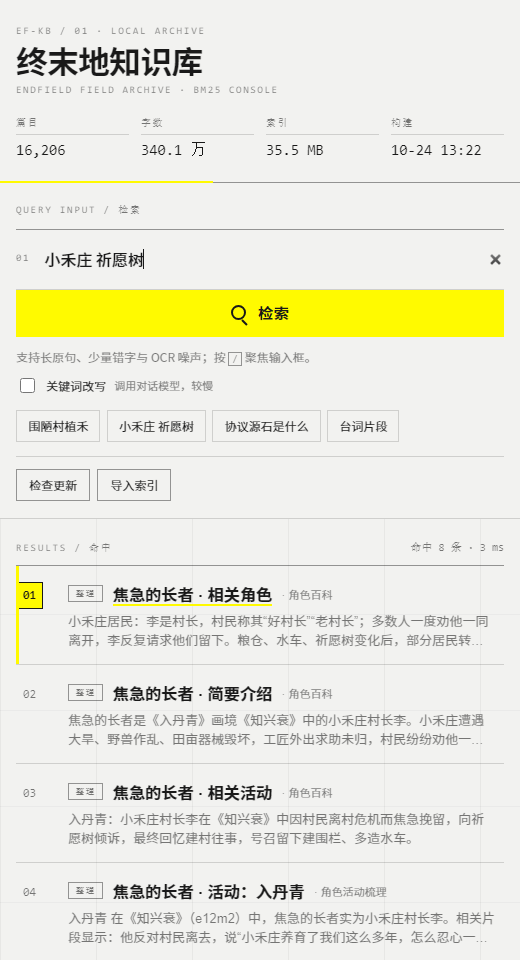
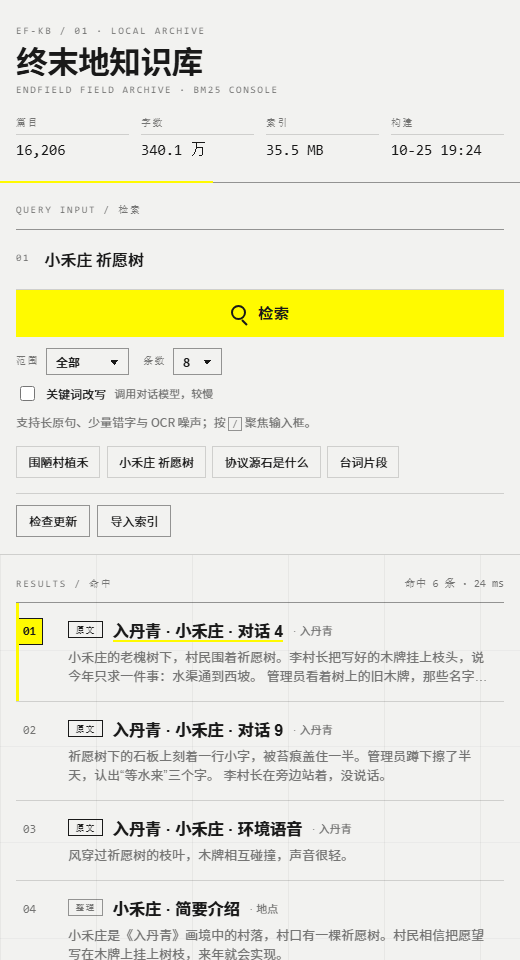
feat: scope filter and result limit in console

diff --git a/views/kb-console/index.html b/views/kb-console/index.html
@@ -55,15 +55,37 @@
           </button>
         </form>
         <div class="ark-query-meta">
-          <p class="ark-hint" id="query-hint">
-            支持长原句、少量错字与 OCR 噪声；按 <kbd>/</kbd> 聚焦输入框。
-          </p>
+          <div class="ark-filters" role="group" aria-label="检索范围与条数">
+            <label class="ark-field">
+              <span class="ark-field-label">范围</span>
+              <select id="scope" name="scope">
+                <option value="">全部</option>
+                <option value="story">剧情原文</option>
+                <option value="archive">中枢档案</option>
+                <option value="wiki">整理资料</option>
+                <option value="character">角色资料</option>
+              </select>
+            </label>
+            <label class="ark-field">
+              <span class="ark-field-label">条数</span>
+              <select id="limit" name="limit">
+                <option value="5">5</option>
+                <option value="8" selected>8</option>
+                <option value="15">15</option>
+                <option value="30">30</option>
+                <option value="50">50</option>
+              </select>
+            </label>
+          </div>
           <label class="ark-toggle">
             <input id="rewrite" type="checkbox" />
             <span>关键词改写</span>
             <span class="ark-toggle-note">调用对话模型，较慢</span>
           </label>
         </div>
+        <p class="ark-hint" id="query-hint">
+          支持长原句、少量错字与 OCR 噪声；按 <kbd>/</kbd> 聚焦输入框。
+        </p>
         <ul class="ark-examples" id="examples" aria-label="示例查询">
           <li><button type="button" data-q="围陋村植禾">围陋村植禾</button></li>
           <li><button type="button" data-q="小禾庄 祈愿树">小禾庄 祈愿树</button></li>

diff --git a/views/kb-console/app.js b/views/kb-console/app.js
@@ -8,6 +8,8 @@ const els = {
   input: document.getElementById("q"),
   submit: document.getElementById("submit"),
   rewrite: document.getElementById("rewrite"),
+  scope: document.getElementById("scope"),
+  limit: document.getElementById("limit"),
   list: document.getElementById("list"),
   placeholder: document.getElementById("placeholder"),
   readout: document.getElementById("readout"),
@@ -312,9 +314,12 @@ async function runSearch(rawQuery) {
   renderSkeleton();
 
   try {
+    const scope = els.scope?.value || "";
+    const limit = Number(els.limit?.value) || 8;
     const payload = await bridge.apiGet("search", {
       q: query,
-      k: 8,
+      k: limit,
+      scope,
       rewrite: els.rewrite.checked ? 1 : 0,
     });
     const count = payload.count ?? 0;
@@ -322,7 +327,10 @@ async function runSearch(rawQuery) {
     const rewritten = payload.rewritten
       ? ` · 改写为 ${payload.used_query}`
       : "";
-    els.readout.textContent = `命中 ${count} 条 · ${elapsed} ms${rewritten}`;
+    const scopeNote = scope
+      ? ` · 仅${els.scope.options[els.scope.selectedIndex].textContent}`
+      : "";
+    els.readout.textContent = `命中 ${count} 条 · ${elapsed} ms${scopeNote}${rewritten}`;
     renderHits(payload);
     if (count > 0) selectHit(0);
   } catch (error) {
@@ -556,6 +564,13 @@ function boot() {
     els.input.value = button.dataset.q;
     runSearch(button.dataset.q);
   });
+
+  const rerunIfIdle = () => {
+    if (state.busy || !state.hasIndex) return;
+    if (els.input.value.trim()) runSearch(els.input.value);
+  };
+  els.scope?.addEventListener("change", rerunIfIdle);
+  els.limit?.addEventListener("change", rerunIfIdle);
 
   els.checkUpdate?.addEventListener("click", () => {
     if (!state.hasIndex) handleFirstDownload();

diff --git a/views/kb-console/style.css b/views/kb-console/style.css
@@ -255,12 +255,57 @@ body {
   display: flex;
   align-items: center;
   justify-content: space-between;
-  gap: 1.5rem;
+  flex-wrap: wrap;
+  gap: 0.9rem 1.5rem;
   margin-block-start: 0.7rem;
 }
 
+.ark-filters {
+  display: flex;
+  align-items: center;
+  flex-wrap: wrap;
+  gap: 0.9rem;
+}
+
+.ark-field {
+  display: inline-flex;
+  align-items: center;
+  gap: 0.45rem;
+  font-family: var(--ark-font-mono);
+  font-size: 10px;
+  letter-spacing: 0.14em;
+  text-transform: uppercase;
+  color: var(--ark-muted);
+}
+
+.ark-field select {
+  appearance: none;
+  border: 1px solid var(--ark-rule-strong);
+  background-color: var(--ark-paper);
+  color: var(--ark-ink);
+  font: 500 12px/1 var(--ark-font-cjk);
+  letter-spacing: 0;
+  padding: 0.42rem 1.5rem 0.42rem 0.55rem;
+  cursor: pointer;
+  background-image: linear-gradient(45deg, transparent 50%, currentColor 50%),
+    linear-gradient(135deg, currentColor 50%, transparent 50%);
+  background-position: calc(100% - 0.82rem) 54%, calc(100% - 0.57rem) 54%;
+  background-size: 5px 5px;
+  background-repeat: no-repeat;
+  transition: border-color 160ms var(--ark-ease);
+}
+
+.ark-field select:hover {
+  border-color: var(--ark-ink);
+}
+
+.ark-field select:focus-visible {
+  outline: 2px solid var(--ark-signal);
+  outline-offset: 2px;
+}
+
 .ark-hint {
-  margin: 0;
+  margin: 0.55rem 0 0;
   font-size: 12px;
   color: var(--ark-muted);
 }

diff --git a/main.py b/main.py
@@ -50,6 +50,20 @@ DEFAULT_INDEX_URLS = (
     f"{MS_BASE}/repo?Revision=master&FilePath=endfield_kb-latest.sqlite3.zip"
 )
 
+# 控制台「范围」筛选：界面选项 → 索引里的 kind
+SCOPE_KINDS: dict[str, tuple[str, ...]] = {
+    "story": ("original_story",),
+    "archive": ("archive",),
+    "wiki": (
+        "knowledge",
+        "story_wiki",
+        "character_wiki",
+        "character_activity_wiki",
+        "reference",
+    ),
+    "character": ("character_profile", "character_voice"),
+}
+
 REWRITE_SYSTEM = "你是检索词提取器。只输出关键词，不要解释、不要编号。"
 REWRITE_PROMPT = (
     "用户想找《明日方舟：终末地》里的一段剧情或设定，但他只记得大意。\n"
@@ -360,8 +374,10 @@ class EndfieldKBPlugin(Star):
         if not self.db_path:
             return error_response("索引尚未构建", status_code=503)
 
-        limit = request.query.get("k", 6, type=int) or 6
-        limit = max(1, min(limit, 10))
+        limit = request.query.get("k", 8, type=int) or 8
+        limit = max(1, min(limit, 50))
+        scope = (request.query.get("scope") or "").strip()
+        kinds = SCOPE_KINDS.get(scope)
         rewrite = str(request.query.get("rewrite", "0")).lower() in {"1", "true", "yes"}
 
         started = time.perf_counter()
@@ -370,7 +386,7 @@ class EndfieldKBPlugin(Star):
             keywords = await self._keywords(query, "")
             if keywords:
                 used = keywords
-        hits = search(self.db_path, used, top_k=limit)
+        hits = search(self.db_path, used, top_k=limit, kinds=kinds)
         elapsed_ms = round((time.perf_counter() - started) * 1000)
 
         return json_response(
@@ -378,6 +394,7 @@ class EndfieldKBPlugin(Star):
                 "query": query,
                 "used_query": used,
                 "rewritten": used != query,
+                "scope": scope,
                 "elapsed_ms": elapsed_ms,
                 "count": len(hits),
                 "hits": [

diff --git a/endfield_kb.py b/endfield_kb.py
@@ -445,6 +445,7 @@ def search(
     query: str,
     top_k: int = 5,
     score_ratio: float = 0.45,
+    kinds: list[str] | None = None,
 ) -> list[Hit]:
     """在索引上做 BM25 检索，并用稀有词约束候选。
 
@@ -454,6 +455,7 @@ def search(
         top_k: 返回条数上限。
         score_ratio: 相对分数阈值。BM25 分数为负且越小越相关，
             仅保留不高于“最佳分数 × 该比例”的结果，用来砍掉陪跑项。
+        kinds: 只在给定的 kind 里检索（原文、档案、整理等）；None 表示全库。
 
     Returns:
         按相关度排序的命中列表。
@@ -464,12 +466,17 @@ def search(
     query_tokens = set(tokenize(query))
     con = sqlite3.connect(f"file:{db_path.as_posix()}?mode=ro", uri=True)
     try:
+        where = "fts MATCH ?"
+        params: list[object] = [expression]
+        if kinds:
+            where += " AND d.kind IN (" + ",".join("?" * len(kinds)) + ")"
+            params.extend(kinds)
         rows = con.execute(
             "SELECT d.doc_id, d.title, d.coll, d.kind, d.body, fts.tokens, d.refs,"
             " bm25(fts) AS score"
             " FROM fts JOIN docs d ON d.id = fts.rowid"
-            " WHERE fts MATCH ? ORDER BY score LIMIT ?",
-            (expression, max(top_k * 6, 20)),
+            f" WHERE {where} ORDER BY score LIMIT ?",
+            (*params, max(top_k * 6, 20)),
         ).fetchall()
         # 查询词的稀有度权重：靠“我/你”这类高频词命中不算数
         weights: dict[str, float] = {}

diff --git a/README.md b/README.md
@@ -138,6 +138,13 @@ zmd 帮助
 
 插件详情页打开「知识库控制台」：检索、查看完整正文、展开出处、切换暗色主题，竖屏自动重排。
 
+输入框下面两个筛选：
+
+- **范围**：全部 / 剧情原文 / 中枢档案 / 整理资料 / 角色资料。切换即用当前查询重跑
+- **条数**：5 / 8 / 15 / 30 / 50，默认 8
+
+范围只收窄候选集合，不改变排序；命中条数还会被相对分数阈值再砍一次，所以实际返回常少于所选条数。
+
 控制台里还有两个按钮：
 
 - **检查更新**：对比本地与远端版本；发现新版本时按钮变成「更新到 x.y.z」，再点一次即下载安装
@@ -163,7 +170,7 @@ zmd 帮助
 | 路由 | 方法 | 用途 |
 |---|---|---|
 | `/astrbot_plugin_endfield_kb/stats` | GET | 篇数、字数、体积、构建时间、语料版本、分类计数 |
-| `/astrbot_plugin_endfield_kb/search` | GET | `q` 查询词、`k` 条数、`rewrite=1` 启用改写 |
+| `/astrbot_plugin_endfield_kb/search` | GET | `q` 查询词、`k` 条数（≤50）、`scope` 范围、`rewrite=1` 启用改写 |
 | `/astrbot_plugin_endfield_kb/updates` | GET | 对比本地与远端版本 |
 | `/astrbot_plugin_endfield_kb/update` | POST | 下载并安装最新索引 |
 | `/astrbot_plugin_endfield_kb/upload` | POST | 接收手动上传的索引文件 |
